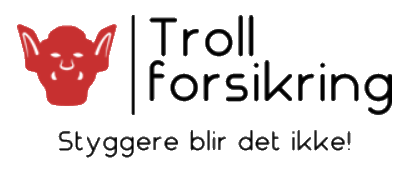
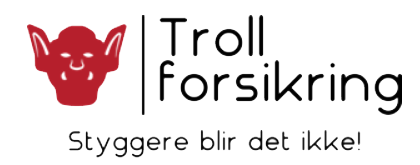
Navn på stage og ikon

Changed region(s): [[0.0296, 0.0909, 0.9778, 0.697], [0.1481, 0.7273, 0.8889, 0.9697], [0.2074, 0.9394, 0.237, 0.9697]]

diff --git a/src/trollforsikring2019/TrollForsikring2019.java b/src/trollforsikring2019/TrollForsikring2019.java
@@ -9,6 +9,7 @@ import javafx.application.Application;
 import javafx.fxml.FXMLLoader;
 import javafx.scene.Parent;
 import javafx.scene.Scene;
+import javafx.scene.image.Image;
 import javafx.stage.Stage;
 
 /**
@@ -24,6 +25,10 @@ public class TrollForsikring2019 extends Application {
         Scene scene = new Scene(root);
         
         stage.setScene(scene);
+        stage.setTitle("Troll Forsikring");
+        
+        stage.getIcons().add(new Image("trollforsikring2019/ikon.png")); 
+        
         stage.show();
     }
 
